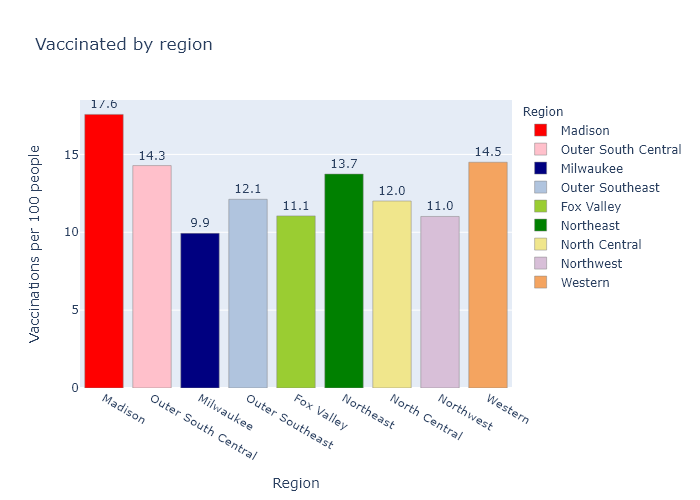
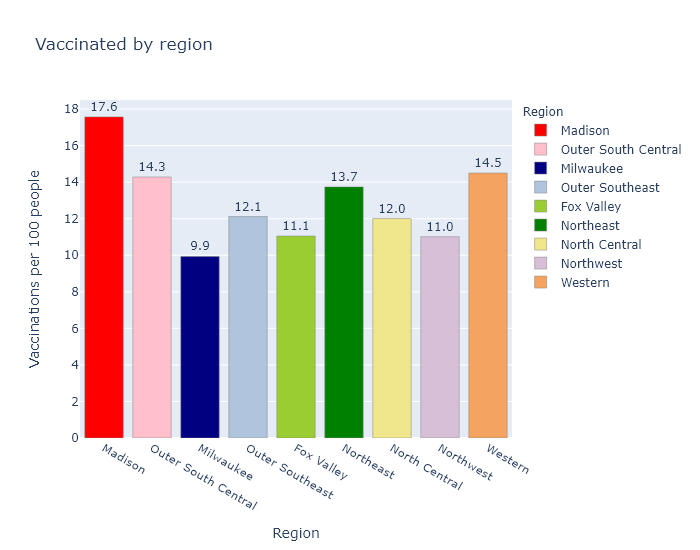
Status update plots update

diff --git a/docs/assets/plotly/Vaccination-Region.html b/docs/assets/plotly/Vaccination-Region.html
@@ -2,6 +2,6 @@
 <head><meta charset="utf-8" /></head>
 <body>
     <div>                        <script type="text/javascript">window.PlotlyConfig = {MathJaxConfig: 'local'};</script>
-        <script src="https://cdn.plot.ly/plotly-latest.min.js"></script>                <div id="e70f0212-ab0a-4e07-a783-a2ff0b2dd20f" class="plotly-graph-div" style="height:500px; width:700px;"></div>            <script type="text/javascript">                                    window.PLOTLYENV=window.PLOTLYENV || {};                                    if (document.getElementById("e70f0212-ab0a-4e07-a783-a2ff0b2dd20f")) {                    Plotly.newPlot(                        "e70f0212-ab0a-4e07-a783-a2ff0b2dd20f",                        [{"alignmentgroup": "True", "hovertemplate": "Region=%{x}<br>Vaccinations per 100 people=%{y}<br>text=%{text}<extra></extra>", "legendgroup": "Madison", "marker": {"color": "red", "line": {"color": "gray"}}, "name": "Madison", "offsetgroup": "Madison", "orientation": "v", "showlegend": true, "text": ["17.6"], "textposition": "outside", "type": "bar", "x": ["Madison"], "xaxis": "x", "y": [17.569343120030968], "yaxis": "y"}, {"alignmentgroup": "True", "hovertemplate": "Region=%{x}<br>Vaccinations per 100 people=%{y}<br>text=%{text}<extra></extra>", "legendgroup": "Outer South Central", "marker": {"color": "pink", "line": {"color": "gray"}}, "name": "Outer South Central", "offsetgroup": "Outer South Central", "orientation": "v", "showlegend": true, "text": ["14.3"], "textposition": "outside", "type": "bar", "x": ["Outer South Central"], "xaxis": "x", "y": [14.282398568465817], "yaxis": "y"}, {"alignmentgroup": "True", "hovertemplate": "Region=%{x}<br>Vaccinations per 100 people=%{y}<br>text=%{text}<extra></extra>", "legendgroup": "Milwaukee", "marker": {"color": "navy", "line": {"color": "gray"}}, "name": "Milwaukee", "offsetgroup": "Milwaukee", "orientation": "v", "showlegend": true, "text": ["9.9"], "textposition": "outside", "type": "bar", "x": ["Milwaukee"], "xaxis": "x", "y": [9.931881779062788], "yaxis": "y"}, {"alignmentgroup": "True", "hovertemplate": "Region=%{x}<br>Vaccinations per 100 people=%{y}<br>text=%{text}<extra></extra>", "legendgroup": "Outer Southeast", "marker": {"color": "lightsteelblue", "line": {"color": "gray"}}, "name": "Outer Southeast", "offsetgroup": "Outer Southeast", "orientation": "v", "showlegend": true, "text": ["12.1"], "textposition": "outside", "type": "bar", "x": ["Outer Southeast"], "xaxis": "x", "y": [12.117969426234394], "yaxis": "y"}, {"alignmentgroup": "True", "hovertemplate": "Region=%{x}<br>Vaccinations per 100 people=%{y}<br>text=%{text}<extra></extra>", "legendgroup": "Fox Valley", "marker": {"color": "yellowgreen", "line": {"color": "gray"}}, "name": "Fox Valley", "offsetgroup": "Fox Valley", "orientation": "v", "showlegend": true, "text": ["11.1"], "textposition": "outside", "type": "bar", "x": ["Fox Valley"], "xaxis": "x", "y": [11.052042276322762], "yaxis": "y"}, {"alignmentgroup": "True", "hovertemplate": "Region=%{x}<br>Vaccinations per 100 people=%{y}<br>text=%{text}<extra></extra>", "legendgroup": "Northeast", "marker": {"color": "green", "line": {"color": "gray"}}, "name": "Northeast", "offsetgroup": "Northeast", "orientation": "v", "showlegend": true, "text": ["13.7"], "textposition": "outside", "type": "bar", "x": ["Northeast"], "xaxis": "x", "y": [13.739148983334761], "yaxis": "y"}, {"alignmentgroup": "True", "hovertemplate": "Region=%{x}<br>Vaccinations per 100 people=%{y}<br>text=%{text}<extra></extra>", "legendgroup": "North Central", "marker": {"color": "khaki", "line": {"color": "gray"}}, "name": "North Central", "offsetgroup": "North Central", "orientation": "v", "showlegend": true, "text": ["12.0"], "textposition": "outside", "type": "bar", "x": ["North Central"], "xaxis": "x", "y": [12.007568192568456], "yaxis": "y"}, {"alignmentgroup": "True", "hovertemplate": "Region=%{x}<br>Vaccinations per 100 people=%{y}<br>text=%{text}<extra></extra>", "legendgroup": "Northwest", "marker": {"color": "thistle", "line": {"color": "gray"}}, "name": "Northwest", "offsetgroup": "Northwest", "orientation": "v", "showlegend": true, "text": ["11.0"], "textposition": "outside", "type": "bar", "x": ["Northwest"], "xaxis": "x", "y": [11.016264911219833], "yaxis": "y"}, {"alignmentgroup": "True", "hovertemplate": "Region=%{x}<br>Vaccinations per 100 people=%{y}<br>text=%{text}<extra></extra>", "legendgroup": "Western", "marker": {"color": "sandybrown", "line": {"color": "gray"}}, "name": "Western", "offsetgroup": "Western", "orientation": "v", "showlegend": true, "text": ["14.5"], "textposition": "outside", "type": "bar", "x": ["Western"], "xaxis": "x", "y": [14.498658630436504], "yaxis": "y"}],                        {"barmode": "relative", "height": 500, "legend": {"title": {"text": "Region"}, "tracegroupgap": 0}, "template": {"data": {"bar": [{"error_x": {"color": "#2a3f5f"}, "error_y": {"color": "#2a3f5f"}, "marker": {"line": {"color": "#E5ECF6", "width": 0.5}}, "type": "bar"}], "barpolar": [{"marker": {"line": {"color": "#E5ECF6", "width": 0.5}}, "type": "barpolar"}], "carpet": [{"aaxis": {"endlinecolor": "#2a3f5f", "gridcolor": "white", "linecolor": "white", "minorgridcolor": "white", "startlinecolor": "#2a3f5f"}, "baxis": {"endlinecolor": "#2a3f5f", "gridcolor": "white", "linecolor": "white", "minorgridcolor": "white", "startlinecolor": "#2a3f5f"}, "type": "carpet"}], "choropleth": [{"colorbar": {"outlinewidth": 0, "ticks": ""}, "type": "choropleth"}], "contour": [{"colorbar": {"outlinewidth": 0, "ticks": ""}, "colorscale": [[0.0, "#0d0887"], [0.1111111111111111, "#46039f"], [0.2222222222222222, "#7201a8"], [0.3333333333333333, "#9c179e"], [0.4444444444444444, "#bd3786"], [0.5555555555555556, "#d8576b"], [0.6666666666666666, "#ed7953"], [0.7777777777777778, "#fb9f3a"], [0.8888888888888888, "#fdca26"], [1.0, "#f0f921"]], "type": "contour"}], "contourcarpet": [{"colorbar": {"outlinewidth": 0, "ticks": ""}, "type": "contourcarpet"}], "heatmap": [{"colorbar": {"outlinewidth": 0, "ticks": ""}, "colorscale": [[0.0, "#0d0887"], [0.1111111111111111, "#46039f"], [0.2222222222222222, "#7201a8"], [0.3333333333333333, "#9c179e"], [0.4444444444444444, "#bd3786"], [0.5555555555555556, "#d8576b"], [0.6666666666666666, "#ed7953"], [0.7777777777777778, "#fb9f3a"], [0.8888888888888888, "#fdca26"], [1.0, "#f0f921"]], "type": "heatmap"}], "heatmapgl": [{"colorbar": {"outlinewidth": 0, "ticks": ""}, "colorscale": [[0.0, "#0d0887"], [0.1111111111111111, "#46039f"], [0.2222222222222222, "#7201a8"], [0.3333333333333333, "#9c179e"], [0.4444444444444444, "#bd3786"], [0.5555555555555556, "#d8576b"], [0.6666666666666666, "#ed7953"], [0.7777777777777778, "#fb9f3a"], [0.8888888888888888, "#fdca26"], [1.0, "#f0f921"]], "type": "heatmapgl"}], "histogram": [{"marker": {"colorbar": {"outlinewidth": 0, "ticks": ""}}, "type": "histogram"}], "histogram2d": [{"colorbar": {"outlinewidth": 0, "ticks": ""}, "colorscale": [[0.0, "#0d0887"], [0.1111111111111111, "#46039f"], [0.2222222222222222, "#7201a8"], [0.3333333333333333, "#9c179e"], [0.4444444444444444, "#bd3786"], [0.5555555555555556, "#d8576b"], [0.6666666666666666, "#ed7953"], [0.7777777777777778, "#fb9f3a"], [0.8888888888888888, "#fdca26"], [1.0, "#f0f921"]], "type": "histogram2d"}], "histogram2dcontour": [{"colorbar": {"outlinewidth": 0, "ticks": ""}, "colorscale": [[0.0, "#0d0887"], [0.1111111111111111, "#46039f"], [0.2222222222222222, "#7201a8"], [0.3333333333333333, "#9c179e"], [0.4444444444444444, "#bd3786"], [0.5555555555555556, "#d8576b"], [0.6666666666666666, "#ed7953"], [0.7777777777777778, "#fb9f3a"], [0.8888888888888888, "#fdca26"], [1.0, "#f0f921"]], "type": "histogram2dcontour"}], "mesh3d": [{"colorbar": {"outlinewidth": 0, "ticks": ""}, "type": "mesh3d"}], "parcoords": [{"line": {"colorbar": {"outlinewidth": 0, "ticks": ""}}, "type": "parcoords"}], "pie": [{"automargin": true, "type": "pie"}], "scatter": [{"marker": {"colorbar": {"outlinewidth": 0, "ticks": ""}}, "type": "scatter"}], "scatter3d": [{"line": {"colorbar": {"outlinewidth": 0, "ticks": ""}}, "marker": {"colorbar": {"outlinewidth": 0, "ticks": ""}}, "type": "scatter3d"}], "scattercarpet": [{"marker": {"colorbar": {"outlinewidth": 0, "ticks": ""}}, "type": "scattercarpet"}], "scattergeo": [{"marker": {"colorbar": {"outlinewidth": 0, "ticks": ""}}, "type": "scattergeo"}], "scattergl": [{"marker": {"colorbar": {"outlinewidth": 0, "ticks": ""}}, "type": "scattergl"}], "scattermapbox": [{"marker": {"colorbar": {"outlinewidth": 0, "ticks": ""}}, "type": "scattermapbox"}], "scatterpolar": [{"marker": {"colorbar": {"outlinewidth": 0, "ticks": ""}}, "type": "scatterpolar"}], "scatterpolargl": [{"marker": {"colorbar": {"outlinewidth": 0, "ticks": ""}}, "type": "scatterpolargl"}], "scatterternary": [{"marker": {"colorbar": {"outlinewidth": 0, "ticks": ""}}, "type": "scatterternary"}], "surface": [{"colorbar": {"outlinewidth": 0, "ticks": ""}, "colorscale": [[0.0, "#0d0887"], [0.1111111111111111, "#46039f"], [0.2222222222222222, "#7201a8"], [0.3333333333333333, "#9c179e"], [0.4444444444444444, "#bd3786"], [0.5555555555555556, "#d8576b"], [0.6666666666666666, "#ed7953"], [0.7777777777777778, "#fb9f3a"], [0.8888888888888888, "#fdca26"], [1.0, "#f0f921"]], "type": "surface"}], "table": [{"cells": {"fill": {"color": "#EBF0F8"}, "line": {"color": "white"}}, "header": {"fill": {"color": "#C8D4E3"}, "line": {"color": "white"}}, "type": "table"}]}, "layout": {"annotationdefaults": {"arrowcolor": "#2a3f5f", "arrowhead": 0, "arrowwidth": 1}, "coloraxis": {"colorbar": {"outlinewidth": 0, "ticks": ""}}, "colorscale": {"diverging": [[0, "#8e0152"], [0.1, "#c51b7d"], [0.2, "#de77ae"], [0.3, "#f1b6da"], [0.4, "#fde0ef"], [0.5, "#f7f7f7"], [0.6, "#e6f5d0"], [0.7, "#b8e186"], [0.8, "#7fbc41"], [0.9, "#4d9221"], [1, "#276419"]], "sequential": [[0.0, "#0d0887"], [0.1111111111111111, "#46039f"], [0.2222222222222222, "#7201a8"], [0.3333333333333333, "#9c179e"], [0.4444444444444444, "#bd3786"], [0.5555555555555556, "#d8576b"], [0.6666666666666666, "#ed7953"], [0.7777777777777778, "#fb9f3a"], [0.8888888888888888, "#fdca26"], [1.0, "#f0f921"]], "sequentialminus": [[0.0, "#0d0887"], [0.1111111111111111, "#46039f"], [0.2222222222222222, "#7201a8"], [0.3333333333333333, "#9c179e"], [0.4444444444444444, "#bd3786"], [0.5555555555555556, "#d8576b"], [0.6666666666666666, "#ed7953"], [0.7777777777777778, "#fb9f3a"], [0.8888888888888888, "#fdca26"], [1.0, "#f0f921"]]}, "colorway": ["#636efa", "#EF553B", "#00cc96", "#ab63fa", "#FFA15A", "#19d3f3", "#FF6692", "#B6E880", "#FF97FF", "#FECB52"], "font": {"color": "#2a3f5f"}, "geo": {"bgcolor": "white", "lakecolor": "white", "landcolor": "#E5ECF6", "showlakes": true, "showland": true, "subunitcolor": "white"}, "hoverlabel": {"align": "left"}, "hovermode": "closest", "mapbox": {"style": "light"}, "paper_bgcolor": "white", "plot_bgcolor": "#E5ECF6", "polar": {"angularaxis": {"gridcolor": "white", "linecolor": "white", "ticks": ""}, "bgcolor": "#E5ECF6", "radialaxis": {"gridcolor": "white", "linecolor": "white", "ticks": ""}}, "scene": {"xaxis": {"backgroundcolor": "#E5ECF6", "gridcolor": "white", "gridwidth": 2, "linecolor": "white", "showbackground": true, "ticks": "", "zerolinecolor": "white"}, "yaxis": {"backgroundcolor": "#E5ECF6", "gridcolor": "white", "gridwidth": 2, "linecolor": "white", "showbackground": true, "ticks": "", "zerolinecolor": "white"}, "zaxis": {"backgroundcolor": "#E5ECF6", "gridcolor": "white", "gridwidth": 2, "linecolor": "white", "showbackground": true, "ticks": "", "zerolinecolor": "white"}}, "shapedefaults": {"line": {"color": "#2a3f5f"}}, "ternary": {"aaxis": {"gridcolor": "white", "linecolor": "white", "ticks": ""}, "baxis": {"gridcolor": "white", "linecolor": "white", "ticks": ""}, "bgcolor": "#E5ECF6", "caxis": {"gridcolor": "white", "linecolor": "white", "ticks": ""}}, "title": {"x": 0.05}, "xaxis": {"automargin": true, "gridcolor": "white", "linecolor": "white", "ticks": "", "title": {"standoff": 15}, "zerolinecolor": "white", "zerolinewidth": 2}, "yaxis": {"automargin": true, "gridcolor": "white", "linecolor": "white", "ticks": "", "title": {"standoff": 15}, "zerolinecolor": "white", "zerolinewidth": 2}}}, "title": {"text": "Vaccinated by region"}, "width": 700, "xaxis": {"anchor": "y", "categoryarray": ["Madison", "Outer South Central", "Milwaukee", "Outer Southeast", "Fox Valley", "Northeast", "North Central", "Northwest", "Western"], "categoryorder": "array", "domain": [0.0, 1.0], "title": {"text": "Region"}}, "yaxis": {"anchor": "x", "domain": [0.0, 1.0], "title": {"text": "Vaccinations per 100 people"}}},                        {"responsive": true}                    )                };                            </script>        </div>
+        <script src="https://cdn.plot.ly/plotly-latest.min.js"></script>                <div id="a0e5e268-ee11-4dfd-a421-5162429d0db8" class="plotly-graph-div" style="height:550px; width:700px;"></div>            <script type="text/javascript">                                    window.PLOTLYENV=window.PLOTLYENV || {};                                    if (document.getElementById("a0e5e268-ee11-4dfd-a421-5162429d0db8")) {                    Plotly.newPlot(                        "a0e5e268-ee11-4dfd-a421-5162429d0db8",                        [{"alignmentgroup": "True", "hovertemplate": "Region=%{x}<br>Vaccinations per 100 people=%{y}<br>text=%{text}<extra></extra>", "legendgroup": "Madison", "marker": {"color": "red", "line": {"color": "gray"}}, "name": "Madison", "offsetgroup": "Madison", "orientation": "v", "showlegend": true, "text": ["17.6"], "textposition": "outside", "type": "bar", "x": ["Madison"], "xaxis": "x", "y": [17.569343120030968], "yaxis": "y"}, {"alignmentgroup": "True", "hovertemplate": "Region=%{x}<br>Vaccinations per 100 people=%{y}<br>text=%{text}<extra></extra>", "legendgroup": "Outer South Central", "marker": {"color": "pink", "line": {"color": "gray"}}, "name": "Outer South Central", "offsetgroup": "Outer South Central", "orientation": "v", "showlegend": true, "text": ["14.3"], "textposition": "outside", "type": "bar", "x": ["Outer South Central"], "xaxis": "x", "y": [14.282398568465817], "yaxis": "y"}, {"alignmentgroup": "True", "hovertemplate": "Region=%{x}<br>Vaccinations per 100 people=%{y}<br>text=%{text}<extra></extra>", "legendgroup": "Milwaukee", "marker": {"color": "navy", "line": {"color": "gray"}}, "name": "Milwaukee", "offsetgroup": "Milwaukee", "orientation": "v", "showlegend": true, "text": ["9.9"], "textposition": "outside", "type": "bar", "x": ["Milwaukee"], "xaxis": "x", "y": [9.931881779062788], "yaxis": "y"}, {"alignmentgroup": "True", "hovertemplate": "Region=%{x}<br>Vaccinations per 100 people=%{y}<br>text=%{text}<extra></extra>", "legendgroup": "Outer Southeast", "marker": {"color": "lightsteelblue", "line": {"color": "gray"}}, "name": "Outer Southeast", "offsetgroup": "Outer Southeast", "orientation": "v", "showlegend": true, "text": ["12.1"], "textposition": "outside", "type": "bar", "x": ["Outer Southeast"], "xaxis": "x", "y": [12.117969426234394], "yaxis": "y"}, {"alignmentgroup": "True", "hovertemplate": "Region=%{x}<br>Vaccinations per 100 people=%{y}<br>text=%{text}<extra></extra>", "legendgroup": "Fox Valley", "marker": {"color": "yellowgreen", "line": {"color": "gray"}}, "name": "Fox Valley", "offsetgroup": "Fox Valley", "orientation": "v", "showlegend": true, "text": ["11.1"], "textposition": "outside", "type": "bar", "x": ["Fox Valley"], "xaxis": "x", "y": [11.052042276322762], "yaxis": "y"}, {"alignmentgroup": "True", "hovertemplate": "Region=%{x}<br>Vaccinations per 100 people=%{y}<br>text=%{text}<extra></extra>", "legendgroup": "Northeast", "marker": {"color": "green", "line": {"color": "gray"}}, "name": "Northeast", "offsetgroup": "Northeast", "orientation": "v", "showlegend": true, "text": ["13.7"], "textposition": "outside", "type": "bar", "x": ["Northeast"], "xaxis": "x", "y": [13.739148983334761], "yaxis": "y"}, {"alignmentgroup": "True", "hovertemplate": "Region=%{x}<br>Vaccinations per 100 people=%{y}<br>text=%{text}<extra></extra>", "legendgroup": "North Central", "marker": {"color": "khaki", "line": {"color": "gray"}}, "name": "North Central", "offsetgroup": "North Central", "orientation": "v", "showlegend": true, "text": ["12.0"], "textposition": "outside", "type": "bar", "x": ["North Central"], "xaxis": "x", "y": [12.007568192568456], "yaxis": "y"}, {"alignmentgroup": "True", "hovertemplate": "Region=%{x}<br>Vaccinations per 100 people=%{y}<br>text=%{text}<extra></extra>", "legendgroup": "Northwest", "marker": {"color": "thistle", "line": {"color": "gray"}}, "name": "Northwest", "offsetgroup": "Northwest", "orientation": "v", "showlegend": true, "text": ["11.0"], "textposition": "outside", "type": "bar", "x": ["Northwest"], "xaxis": "x", "y": [11.016264911219833], "yaxis": "y"}, {"alignmentgroup": "True", "hovertemplate": "Region=%{x}<br>Vaccinations per 100 people=%{y}<br>text=%{text}<extra></extra>", "legendgroup": "Western", "marker": {"color": "sandybrown", "line": {"color": "gray"}}, "name": "Western", "offsetgroup": "Western", "orientation": "v", "showlegend": true, "text": ["14.5"], "textposition": "outside", "type": "bar", "x": ["Western"], "xaxis": "x", "y": [14.498658630436504], "yaxis": "y"}],                        {"barmode": "relative", "height": 550, "legend": {"title": {"text": "Region"}, "tracegroupgap": 0}, "template": {"data": {"bar": [{"error_x": {"color": "#2a3f5f"}, "error_y": {"color": "#2a3f5f"}, "marker": {"line": {"color": "#E5ECF6", "width": 0.5}}, "type": "bar"}], "barpolar": [{"marker": {"line": {"color": "#E5ECF6", "width": 0.5}}, "type": "barpolar"}], "carpet": [{"aaxis": {"endlinecolor": "#2a3f5f", "gridcolor": "white", "linecolor": "white", "minorgridcolor": "white", "startlinecolor": "#2a3f5f"}, "baxis": {"endlinecolor": "#2a3f5f", "gridcolor": "white", "linecolor": "white", "minorgridcolor": "white", "startlinecolor": "#2a3f5f"}, "type": "carpet"}], "choropleth": [{"colorbar": {"outlinewidth": 0, "ticks": ""}, "type": "choropleth"}], "contour": [{"colorbar": {"outlinewidth": 0, "ticks": ""}, "colorscale": [[0.0, "#0d0887"], [0.1111111111111111, "#46039f"], [0.2222222222222222, "#7201a8"], [0.3333333333333333, "#9c179e"], [0.4444444444444444, "#bd3786"], [0.5555555555555556, "#d8576b"], [0.6666666666666666, "#ed7953"], [0.7777777777777778, "#fb9f3a"], [0.8888888888888888, "#fdca26"], [1.0, "#f0f921"]], "type": "contour"}], "contourcarpet": [{"colorbar": {"outlinewidth": 0, "ticks": ""}, "type": "contourcarpet"}], "heatmap": [{"colorbar": {"outlinewidth": 0, "ticks": ""}, "colorscale": [[0.0, "#0d0887"], [0.1111111111111111, "#46039f"], [0.2222222222222222, "#7201a8"], [0.3333333333333333, "#9c179e"], [0.4444444444444444, "#bd3786"], [0.5555555555555556, "#d8576b"], [0.6666666666666666, "#ed7953"], [0.7777777777777778, "#fb9f3a"], [0.8888888888888888, "#fdca26"], [1.0, "#f0f921"]], "type": "heatmap"}], "heatmapgl": [{"colorbar": {"outlinewidth": 0, "ticks": ""}, "colorscale": [[0.0, "#0d0887"], [0.1111111111111111, "#46039f"], [0.2222222222222222, "#7201a8"], [0.3333333333333333, "#9c179e"], [0.4444444444444444, "#bd3786"], [0.5555555555555556, "#d8576b"], [0.6666666666666666, "#ed7953"], [0.7777777777777778, "#fb9f3a"], [0.8888888888888888, "#fdca26"], [1.0, "#f0f921"]], "type": "heatmapgl"}], "histogram": [{"marker": {"colorbar": {"outlinewidth": 0, "ticks": ""}}, "type": "histogram"}], "histogram2d": [{"colorbar": {"outlinewidth": 0, "ticks": ""}, "colorscale": [[0.0, "#0d0887"], [0.1111111111111111, "#46039f"], [0.2222222222222222, "#7201a8"], [0.3333333333333333, "#9c179e"], [0.4444444444444444, "#bd3786"], [0.5555555555555556, "#d8576b"], [0.6666666666666666, "#ed7953"], [0.7777777777777778, "#fb9f3a"], [0.8888888888888888, "#fdca26"], [1.0, "#f0f921"]], "type": "histogram2d"}], "histogram2dcontour": [{"colorbar": {"outlinewidth": 0, "ticks": ""}, "colorscale": [[0.0, "#0d0887"], [0.1111111111111111, "#46039f"], [0.2222222222222222, "#7201a8"], [0.3333333333333333, "#9c179e"], [0.4444444444444444, "#bd3786"], [0.5555555555555556, "#d8576b"], [0.6666666666666666, "#ed7953"], [0.7777777777777778, "#fb9f3a"], [0.8888888888888888, "#fdca26"], [1.0, "#f0f921"]], "type": "histogram2dcontour"}], "mesh3d": [{"colorbar": {"outlinewidth": 0, "ticks": ""}, "type": "mesh3d"}], "parcoords": [{"line": {"colorbar": {"outlinewidth": 0, "ticks": ""}}, "type": "parcoords"}], "pie": [{"automargin": true, "type": "pie"}], "scatter": [{"marker": {"colorbar": {"outlinewidth": 0, "ticks": ""}}, "type": "scatter"}], "scatter3d": [{"line": {"colorbar": {"outlinewidth": 0, "ticks": ""}}, "marker": {"colorbar": {"outlinewidth": 0, "ticks": ""}}, "type": "scatter3d"}], "scattercarpet": [{"marker": {"colorbar": {"outlinewidth": 0, "ticks": ""}}, "type": "scattercarpet"}], "scattergeo": [{"marker": {"colorbar": {"outlinewidth": 0, "ticks": ""}}, "type": "scattergeo"}], "scattergl": [{"marker": {"colorbar": {"outlinewidth": 0, "ticks": ""}}, "type": "scattergl"}], "scattermapbox": [{"marker": {"colorbar": {"outlinewidth": 0, "ticks": ""}}, "type": "scattermapbox"}], "scatterpolar": [{"marker": {"colorbar": {"outlinewidth": 0, "ticks": ""}}, "type": "scatterpolar"}], "scatterpolargl": [{"marker": {"colorbar": {"outlinewidth": 0, "ticks": ""}}, "type": "scatterpolargl"}], "scatterternary": [{"marker": {"colorbar": {"outlinewidth": 0, "ticks": ""}}, "type": "scatterternary"}], "surface": [{"colorbar": {"outlinewidth": 0, "ticks": ""}, "colorscale": [[0.0, "#0d0887"], [0.1111111111111111, "#46039f"], [0.2222222222222222, "#7201a8"], [0.3333333333333333, "#9c179e"], [0.4444444444444444, "#bd3786"], [0.5555555555555556, "#d8576b"], [0.6666666666666666, "#ed7953"], [0.7777777777777778, "#fb9f3a"], [0.8888888888888888, "#fdca26"], [1.0, "#f0f921"]], "type": "surface"}], "table": [{"cells": {"fill": {"color": "#EBF0F8"}, "line": {"color": "white"}}, "header": {"fill": {"color": "#C8D4E3"}, "line": {"color": "white"}}, "type": "table"}]}, "layout": {"annotationdefaults": {"arrowcolor": "#2a3f5f", "arrowhead": 0, "arrowwidth": 1}, "coloraxis": {"colorbar": {"outlinewidth": 0, "ticks": ""}}, "colorscale": {"diverging": [[0, "#8e0152"], [0.1, "#c51b7d"], [0.2, "#de77ae"], [0.3, "#f1b6da"], [0.4, "#fde0ef"], [0.5, "#f7f7f7"], [0.6, "#e6f5d0"], [0.7, "#b8e186"], [0.8, "#7fbc41"], [0.9, "#4d9221"], [1, "#276419"]], "sequential": [[0.0, "#0d0887"], [0.1111111111111111, "#46039f"], [0.2222222222222222, "#7201a8"], [0.3333333333333333, "#9c179e"], [0.4444444444444444, "#bd3786"], [0.5555555555555556, "#d8576b"], [0.6666666666666666, "#ed7953"], [0.7777777777777778, "#fb9f3a"], [0.8888888888888888, "#fdca26"], [1.0, "#f0f921"]], "sequentialminus": [[0.0, "#0d0887"], [0.1111111111111111, "#46039f"], [0.2222222222222222, "#7201a8"], [0.3333333333333333, "#9c179e"], [0.4444444444444444, "#bd3786"], [0.5555555555555556, "#d8576b"], [0.6666666666666666, "#ed7953"], [0.7777777777777778, "#fb9f3a"], [0.8888888888888888, "#fdca26"], [1.0, "#f0f921"]]}, "colorway": ["#636efa", "#EF553B", "#00cc96", "#ab63fa", "#FFA15A", "#19d3f3", "#FF6692", "#B6E880", "#FF97FF", "#FECB52"], "font": {"color": "#2a3f5f"}, "geo": {"bgcolor": "white", "lakecolor": "white", "landcolor": "#E5ECF6", "showlakes": true, "showland": true, "subunitcolor": "white"}, "hoverlabel": {"align": "left"}, "hovermode": "closest", "mapbox": {"style": "light"}, "paper_bgcolor": "white", "plot_bgcolor": "#E5ECF6", "polar": {"angularaxis": {"gridcolor": "white", "linecolor": "white", "ticks": ""}, "bgcolor": "#E5ECF6", "radialaxis": {"gridcolor": "white", "linecolor": "white", "ticks": ""}}, "scene": {"xaxis": {"backgroundcolor": "#E5ECF6", "gridcolor": "white", "gridwidth": 2, "linecolor": "white", "showbackground": true, "ticks": "", "zerolinecolor": "white"}, "yaxis": {"backgroundcolor": "#E5ECF6", "gridcolor": "white", "gridwidth": 2, "linecolor": "white", "showbackground": true, "ticks": "", "zerolinecolor": "white"}, "zaxis": {"backgroundcolor": "#E5ECF6", "gridcolor": "white", "gridwidth": 2, "linecolor": "white", "showbackground": true, "ticks": "", "zerolinecolor": "white"}}, "shapedefaults": {"line": {"color": "#2a3f5f"}}, "ternary": {"aaxis": {"gridcolor": "white", "linecolor": "white", "ticks": ""}, "baxis": {"gridcolor": "white", "linecolor": "white", "ticks": ""}, "bgcolor": "#E5ECF6", "caxis": {"gridcolor": "white", "linecolor": "white", "ticks": ""}}, "title": {"x": 0.05}, "xaxis": {"automargin": true, "gridcolor": "white", "linecolor": "white", "ticks": "", "title": {"standoff": 15}, "zerolinecolor": "white", "zerolinewidth": 2}, "yaxis": {"automargin": true, "gridcolor": "white", "linecolor": "white", "ticks": "", "title": {"standoff": 15}, "zerolinecolor": "white", "zerolinewidth": 2}}}, "title": {"text": "Vaccinated by region"}, "width": 700, "xaxis": {"anchor": "y", "categoryarray": ["Madison", "Outer South Central", "Milwaukee", "Outer Southeast", "Fox Valley", "Northeast", "North Central", "Northwest", "Western"], "categoryorder": "array", "domain": [0.0, 1.0], "title": {"text": "Region"}}, "yaxis": {"anchor": "x", "domain": [0.0, 1.0], "title": {"text": "Vaccinations per 100 people"}}},                        {"responsive": true}                    )                };                            </script>        </div>
 </body>
 </html>

diff --git a/BlogVaccines.py b/BlogVaccines.py
@@ -206,7 +206,7 @@ fig = px.bar(
     title='Vaccinated by region',
     color_discrete_map=color_dict,
     width=700,
-    height=500,
+    height=550,
     )
 
 fig.update_traces(textposition='outside')
@@ -253,7 +253,7 @@ save_png = '.\\docs\\assets\\Vaccination-Region.png'
 fig.write_image(
     save_png,
     width=700,
-    height=500,
+    height=550,
     engine='kaleido',
 )
 os.startfile(save_png)
